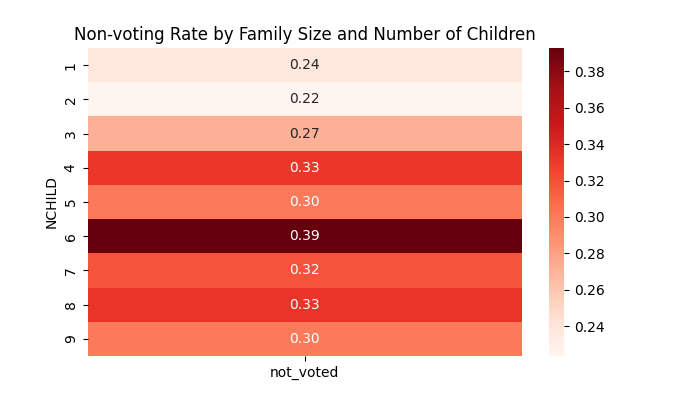
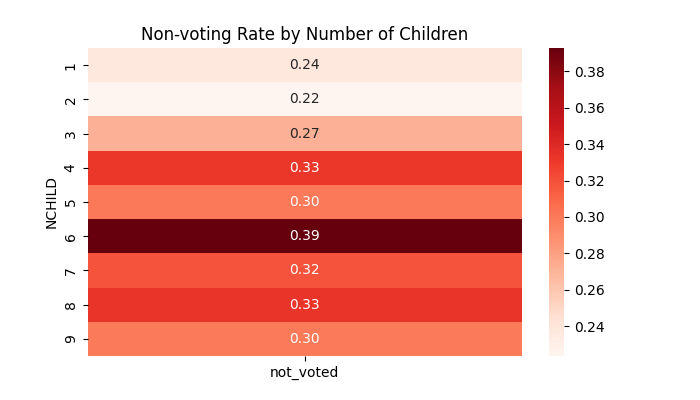
revision

Changed region(s): [[0.09, 0.06, 0.78, 0.12]]

diff --git a/project_codes/data_plots.py b/project_codes/data_plots.py
@@ -42,7 +42,7 @@ def main():
     plt.close()
 
     table5 = df.pivot_table(columns="MARST", values="not_voted", aggfunc="mean")
-    plt.figure(figsize=(8.5,2))
+    plt.figure(figsize=(8.5,3))
     sns.heatmap(table5, annot=True, fmt=".2f", cmap="Reds")
     plt.title("Non-voting Rate by Spouse Status")
     plt.savefig(PATH / "data5.png")
@@ -62,7 +62,7 @@ def main():
                             values="not_voted", aggfunc="mean")
     plt.figure(figsize=(7,4))
     sns.heatmap(table7, annot=True, fmt=".2f", cmap="Reds")
-    plt.title("Non-voting Rate by Family Size and Number of Children")
+    plt.title("Non-voting Rate by Number of Children")
     plt.savefig(PATH / "data7.png")
     plt.close()
 
